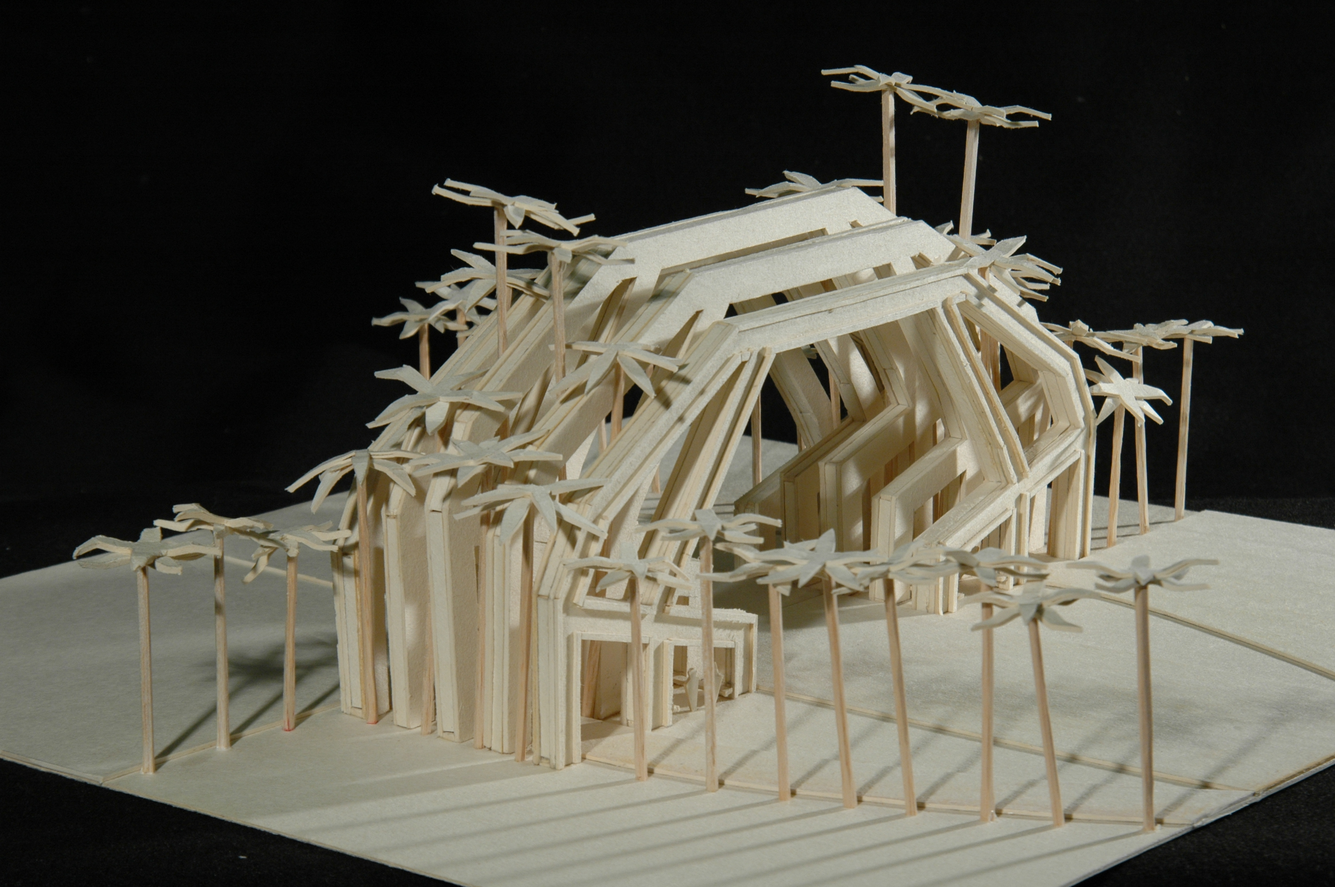
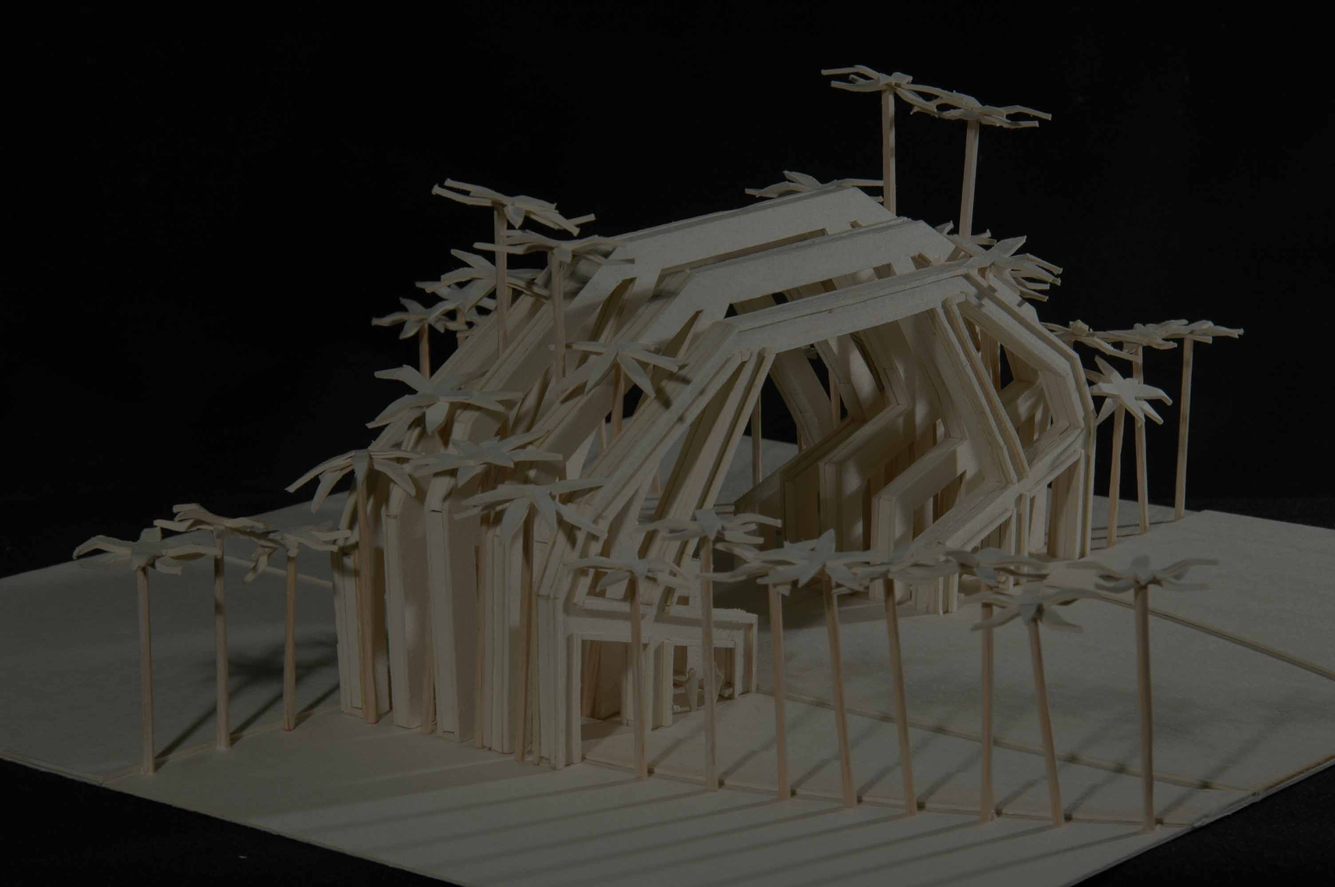
Added new backgrounds.

diff --git a/css/images.css b/css/images.css
@@ -1,9 +1,15 @@
 #intro-wrapper {
-  background: url(../assets/backgrounds/1.jpg) no-repeat center center fixed;
-  background: url(../assets/backgrounds/2.png) no-repeat center center fixed;
-  background: url(../assets/backgrounds/3.jpg) no-repeat center center fixed;
+  background: url(../assets/backgrounds/1.jpg) no-repeat center top fixed;
+  background: url(../assets/backgrounds/2.jpg) no-repeat center bottom fixed;
+  background: url(../assets/backgrounds/3.jpg) no-repeat center top fixed;
   background: url(../assets/backgrounds/4.jpg) no-repeat center center fixed;
   background: url(../assets/backgrounds/5.jpg) no-repeat center center fixed;
+  background: url(../assets/backgrounds/6.jpg) no-repeat center center fixed;
+  background-size: cover;
+}
+
+#biography-flex-wrapper {
+  background: url(../assets/backgrounds/7.jpg) no-repeat center center fixed;
   background-size: cover;
 }
 

diff --git a/css/style.css b/css/style.css
@@ -6,7 +6,7 @@
 
 @keyframes image-fade {
   100% {
-    opacity: 0.3;
+    opacity: 0.4;
   }
 }
 
@@ -120,9 +120,6 @@ h3 {
   display: flex;
   justify-content: center;
   align-items: center;
-
-  background: url(../assets/backgrounds/7.jpg) no-repeat center center fixed;
-  background-size: cover;
 }
 
 #biography-wrapper {
